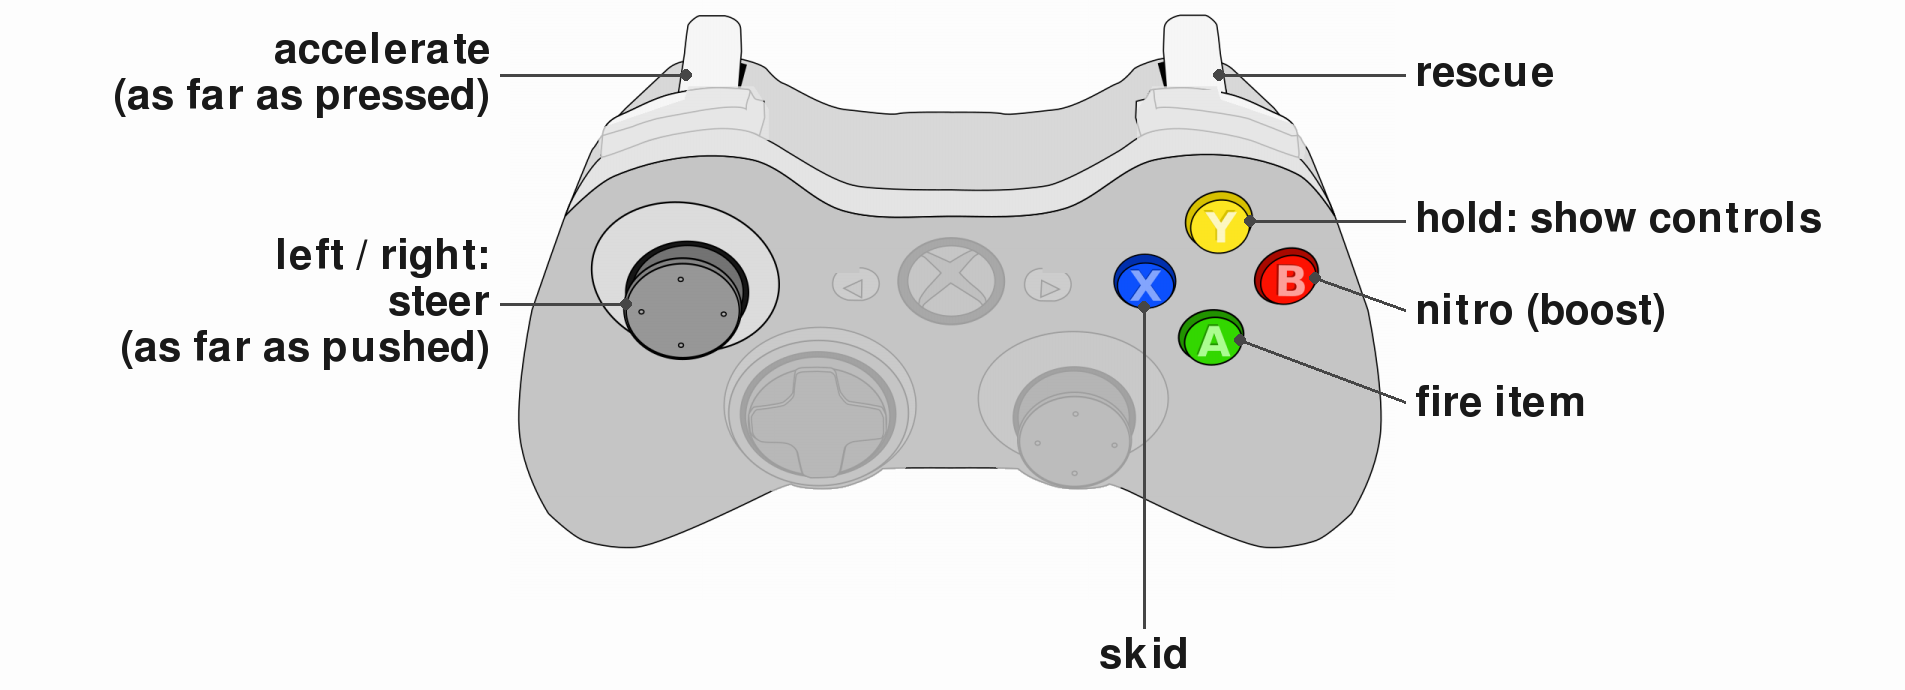
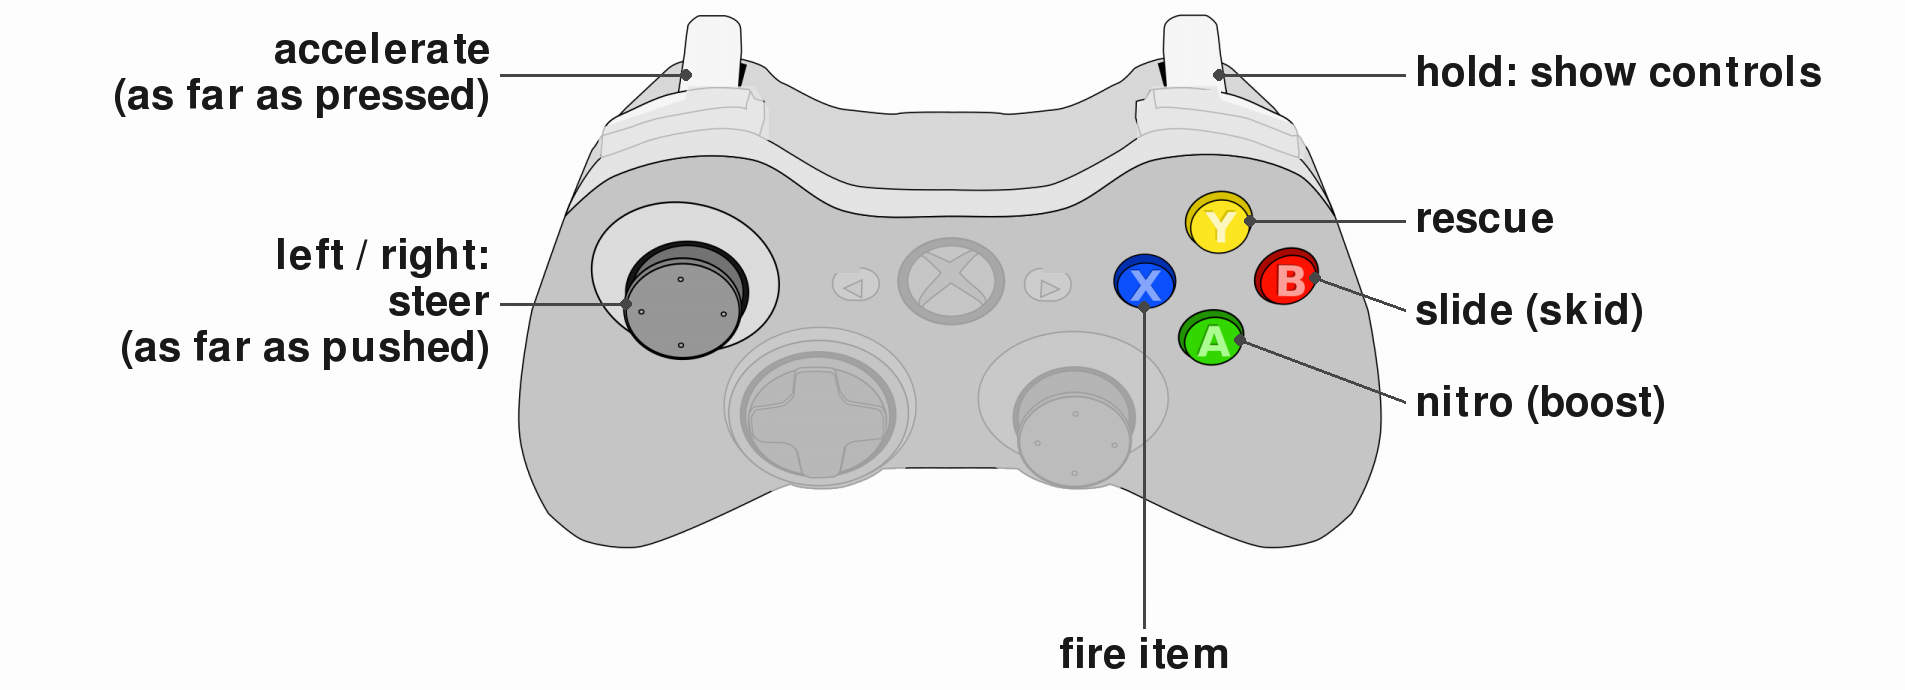
BC STK analog: one curriculum per track, an hour of repeated races, RT shows the controls
The all-tracks curricula are gone (main and BC). BC has one analog
curriculum per track under configs/BC/curricula/stk/levels/, the same paths
as the main ones, so the task labels match. A block is an hour
("duration" 3600 s): races on its track restart until the clock runs out.

Controls: stick steer, LT accelerate (as far as pressed), A nitro, B slide
(skid), X fire item, Y rescue, RT held shows the controls. The BC controls
image is redrawn to match.

Verified: tests.verify_replay on
configs/BC/curricula/stk/levels/hacienda-GMPD3-stick-nav-analog.json, 600
frames, 0 mismatched; tests/test_configs.py 1236 passed.

diff --git a/README.md b/README.md
@@ -126,7 +126,7 @@ A curriculum's path after `curricula/`, in camelCase (BIDS labels are letters an
 | `nethack/` | 1 | `levels/`: score (base NetHack; TTY rendered to a pixel frame) |
 | `retro/` | 1 | `levels/`: airstriker (ships with stable-retro; sound) |
 | `rushhour/` | 7 | `levels/`: easy (5 min of random easy puzzles); `all` (Rush-Hour's own program, then the rest of the library's first block: its 49 puzzles, one game phase each, with ready screens and solved feedback as message phases); `extended` (the library's second block, its 392 puzzles the same way, easiest levels first); each of `all` and `extended` also in two GMPD3 controller versions |
-| `stk/` | 16 | `levels/`: hacienda, cornfield_crossing, lighthouse, scotland, snowmountain (the race tracks the package ships; needs a real GL display), each also in a `*-GMPD3-stick-nav` controller version and a `*-GMPD3-stick-nav-analog` one; and `all-GMPD3-stick-nav-analog`, the analog versions in a row, from the shortest lap to the longest |
+| `stk/` | 15 | `levels/`: hacienda, cornfield_crossing, lighthouse, scotland, snowmountain (the race tracks the package ships; needs a real GL display), each also in a `*-GMPD3-stick-nav` controller version and a `*-GMPD3-stick-nav-analog` one |
 | `vgdl/` | 11 | `levels/`: aliens, avoidGeorge, beesAndBirds, jaws, missile_command, plaqueAttack, portals, preconditions, pushBoulders, relational (needs the VGDL checkout), and `all` |
 | `vizdoom/` | 155 | `levels/`: basic, deadly_corridor, defend_center, defend_line, health_gathering_supreme, my_way_home, predict_position, take_cover, deathmatch, freedoom1_e1m1 … freedoom1_e4m9 and freedoom2_map01 … freedoom2_map32 (every map of [Freedoom](https://freedoom.github.io/) Phase 1 and Phase 2, whose WADs ship with `vizdoom`; `VizdoomDoom*` plays the original WADs, given them); each also in a `*-GMPD3-stick-nav` controller version; and `all-GMPD3-stick-nav`, those controller versions in a row, the stock scenarios from the simplest, then Freedoom Phase 1 and Phase 2 |
 

diff --git a/configs/curricula/stk/common/README.md b/configs/curricula/stk/common/README.md
@@ -48,4 +48,3 @@ Per frame: the action (the 8-vector; the 7 controls in `*-GMPD3-stick-nav-analog
 | `snowmountain.json` | Northern Resort | 1147 m |
 | `<track>-GMPD3-stick-nav.json` | the same track, on a controller | |
 | `<track>-GMPD3-stick-nav-analog.json` | the same track, on a controller's analog stick | |
-| `all-GMPD3-stick-nav-analog.json` | every track's analog version in a row, from the shortest lap to the longest | |
